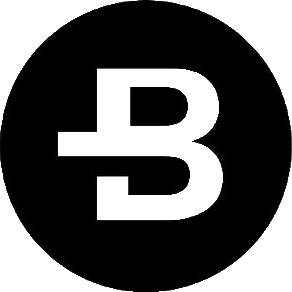
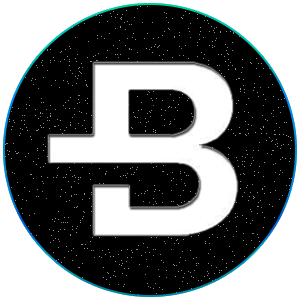
prettier clickpicture,added sounds when coin is pressed

diff --git a/js/scripts.js b/js/scripts.js
@@ -6,7 +6,6 @@ setInterval(clickAutomatic,1000);
 function clickCoin(event) {
     //var x = event.screenX;
     //var y = event.screenY;
-
     amountCoins+=coinsPerClick;
     amountCoins=decimalRound(amountCoins,1);
     document.getElementById("amount").innerText="ByteCoins: "+amountCoins;
@@ -16,6 +15,7 @@ function clickCoin(event) {
     clickHit.name=new Date().getTime();
     document.body.appendChild(clickHit);
     checkUpgradesAffordable();
+    playSound("sounds/coinClick.mp3");
 }
 function buyUpgrade(upgrade)
 {
@@ -54,8 +54,7 @@ function buyUpgrade(upgrade)
             {
                 coinsPerClick*=2;
                 amountCoins-=parseInt(upgrades[2].textContent);
-                var object = upgradeFields[2];
-                document.getElementById("upgradeField").removeChild(object);
+                document.getElementById("upgradeField").removeChild(upgradeFields[2]);
             }
             break;
         case "GS":
@@ -63,8 +62,7 @@ function buyUpgrade(upgrade)
             {
                 coinsPerClick*=2;
                 amountCoins-=parseInt(upgrades[2].textContent);
-                var object = upgradeFields[2];
-                document.getElementById("upgradeField").removeChild(object);
+                document.getElementById("upgradeField").removeChild(upgradeFields[2]);
             }
             break;
 
@@ -132,4 +130,14 @@ function removeInvisibleObjects(){
             body.removeChild(items[i]);
         }
     }
+}
+function playSound(url){
+    var audio = document.createElement('audio');
+    audio.style.display = "none";
+    audio.src = url;
+    audio.autoplay = true;
+    audio.onended = function(){
+        audio.remove();
+    };
+    document.body.appendChild(audio);
 }
